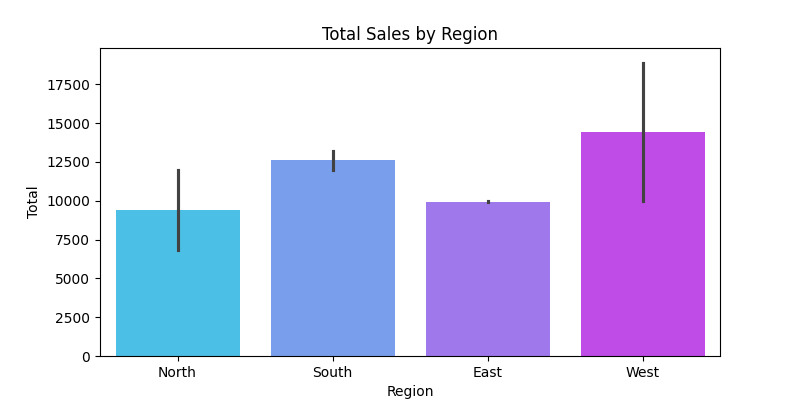
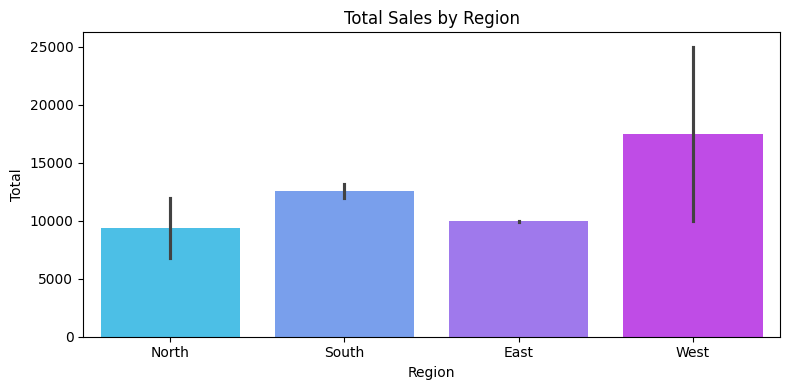
Step 3 updated: Data cleaning, visuals, PDF & email automation explained

diff --git a/SALES_ANALYTICS_DASHBOARD/main.py b/SALES_ANALYTICS_DASHBOARD/main.py
@@ -8,126 +8,165 @@ import seaborn as sns
 from reportlab.lib.pagesizes import letter
 from reportlab.platypus import SimpleDocTemplate, Paragraph, Spacer, Image
 from reportlab.lib.styles import getSampleStyleSheet
-
-# ✅ 1. Read latest sales data
-file_path = "/workspaces/sales_analytics_dashboard/SALES_ANALYTICS_DASHBOARD/Data/sales_data.csv"
-df = pd.read_csv(file_path)
-
-# ✅ 2. Basic cleaning (remove duplicates & nulls)
-df.drop_duplicates(inplace=True)
-df.dropna(inplace=True)
-
-# ✅ 3. Recalculate total column if missing
-if 'Total' not in df.columns:
-    df['Total'] = df['Quantity'] * df['Unit_Price']
-
-# ✅ 4. Save cleaned file back to CSV
-df.to_csv(file_path, index=False)
-
-# ✅ 5. Summary stats
-total_sales = df["Total"].sum()
-avg_sales = df["Total"].mean()
-sales_by_region = df.groupby("Region")["Total"].sum()
-sales_by_product = df.groupby("Product")["Total"].sum()
-
-print("✅ Data cleaned and updated successfully!")
-print("📊 Total Sales:", total_sales)
-print("📈 Average Sale Per Transaction:", avg_sales)
-
-# ========================================
-# ✅ VISUALS SECTION
-# ========================================
-
-plt.figure(figsize=(8, 4))
-sns.barplot(x="Region", y="Total", data=df, hue="Region", palette="cool", legend=False)
-plt.title("Total Sales by Region")
-plt.savefig("/workspaces/sales_analytics_dashboard/SALES_ANALYTICS_DASHBOARD/visuals/sales_by_region.png")
-plt.close()
-
-plt.figure(figsize=(8, 4))
-sns.barplot(x="Product", y="Total", data=df, hue="Product", palette="magma", legend=False)
-plt.title("Total Sales by Product")
-plt.savefig("/workspaces/sales_analytics_dashboard/SALES_ANALYTICS_DASHBOARD/visuals/sales_by_product.png")
-plt.close()
-
-# ========================================
-# ✅ PDF REPORT GENERATION
-# ========================================
-
-pdf_path = "/workspaces/sales_analytics_dashboard/SALES_ANALYTICS_DASHBOARD/visuals/sales_report.pdf"
-doc = SimpleDocTemplate(pdf_path, pagesize=letter)
-styles = getSampleStyleSheet()
-story = []
-
-story.append(Paragraph("Sales Analytics Report", styles["Title"]))
-story.append(Spacer(1, 12))
-story.append(Paragraph(f"Total Sales: {total_sales}", styles["Normal"]))
-story.append(Paragraph(f"Average Sale per Transaction: {avg_sales:.2f}", styles["Normal"]))
-story.append(Spacer(1, 12))
-
-story.append(Paragraph("Sales by Region:", styles["Heading2"]))
-story.append(Paragraph(sales_by_region.to_string(), styles["Code"]))
-story.append(Spacer(1, 12))
-
-story.append(Paragraph("Sales by Product:", styles["Heading2"]))
-story.append(Paragraph(sales_by_product.to_string(), styles["Code"]))
-story.append(Spacer(1, 12))
-
-story.append(Image("/workspaces/sales_analytics_dashboard/SALES_ANALYTICS_DASHBOARD/visuals/sales_by_region.png", width=400, height=250))
-story.append(Spacer(1, 12))
-story.append(Image("/workspaces/sales_analytics_dashboard/SALES_ANALYTICS_DASHBOARD/visuals/sales_by_product.png", width=400, height=250))
-
-doc.build(story)
-
-print(f"✅ PDF Report Generated: {pdf_path}")
-
-# ====================================================
-# STEP 4 - Email Automation (Send PDF Report)
-# ====================================================
-
-import smtplib
-import json
-from email.mime.text import MIMEText
-from email.mime.multipart import MIMEMultipart
-from email.mime.base import MIMEBase
-from email import encoders
 import os
+import sys
 
-# ✅ Read email credentials from config.json
-config_path = "/workspaces/sales_analytics_dashboard/SALES_ANALYTICS_DASHBOARD/config.json"
-with open(config_path, 'r') as file:
-    config = json.load(file)
+# Replace the top-level script behavior with a main() and add validations
+def main():
+    file_path = "/workspaces/sales_analytics_dashboard/SALES_ANALYTICS_DASHBOARD/Data/sales_data.csv"
 
-sender_email = config["sender_email"]
-app_password = config["app_password"]
-receiver_email = config["receiver_email"]
+    # Read CSV with error handling
+    try:
+        df = pd.read_csv(file_path)
+    except Exception as e:
+        print("❌ Failed to read sales CSV:", e)
+        sys.exit(1)
 
-# ✅ Email setup
-subject = "Weekly Sales Report 📊"
-body = "Dear Team,\n\nPlease find the attached latest Sales Report (PDF).\n\nRegards,\nSales Analytics System"
+    # Ensure required columns exist
+    required = ["Quantity", "Unit_Price", "Region", "Product"]
+    missing = [c for c in required if c not in df.columns]
+    if missing:
+        print("❌ Missing required columns:", missing)
+        sys.exit(1)
 
-# ✅ Create email message
-message = MIMEMultipart()
-message["From"] = sender_email
-message["To"] = receiver_email
-message["Subject"] = subject
-message.attach(MIMEText(body, "plain"))
+    # Basic cleaning: remove exact duplicate rows and only drop rows missing critical fields
+    df.drop_duplicates(inplace=True)
+    df.dropna(subset=required, inplace=True)
 
-# ✅ Attach PDF report
-pdf_path = "/workspaces/sales_analytics_dashboard/SALES_ANALYTICS_DASHBOARD/visuals/sales_report.pdf"
-with open(pdf_path, "rb") as pdf_file:
-    part = MIMEBase("application", "octet-stream")
-    part.set_payload(pdf_file.read())
-encoders.encode_base64(part)
-part.add_header("Content-Disposition", f"attachment; filename={os.path.basename(pdf_path)}")
-message.attach(part)
+    # Coerce numeric types for calculation (safe)
+    df["Quantity"] = pd.to_numeric(df["Quantity"], errors="coerce")
+    df["Unit_Price"] = pd.to_numeric(df["Unit_Price"], errors="coerce")
+    df.dropna(subset=["Quantity", "Unit_Price"], inplace=True)
 
-# ✅ Send email via Gmail SMTP
-try:
-    with smtplib.SMTP_SSL("smtp.gmail.com", 465) as server:
-        server.login(sender_email, app_password)
-        server.send_message(message)
-        print("✅ Email sent successfully with attached PDF!")
-except Exception as e:
-    print("❌ Error sending email:", e)
+    # Recalculate Total if missing or if type unsafe
+    if 'Total' not in df.columns or not pd.api.types.is_numeric_dtype(df['Total']):
+        df['Total'] = df['Quantity'] * df['Unit_Price']
+
+    # Save cleaned file back to CSV
+    try:
+        df.to_csv(file_path, index=False)
+    except Exception as e:
+        print("❌ Failed to write cleaned CSV:", e)
+
+    # Summary stats
+    total_sales = df["Total"].sum()
+    avg_sales = df["Total"].mean()
+    sales_by_region = df.groupby("Region")["Total"].sum()
+    sales_by_product = df.groupby("Product")["Total"].sum()
+
+    print("✅ Data cleaned and updated successfully!")
+    print("📊 Total Sales:", total_sales)
+    print("📈 Average Sale Per Transaction:", avg_sales)
+
+    # Ensure visuals directory exists
+    visuals_dir = "/workspaces/sales_analytics_dashboard/SALES_ANALYTICS_DASHBOARD/visuals"
+    os.makedirs(visuals_dir, exist_ok=True)
+
+    # Visuals (use bbox_inches to avoid cut off)
+    region_png = os.path.join(visuals_dir, "sales_by_region.png")
+    plt.figure(figsize=(8, 4))
+    sns.barplot(x="Region", y="Total", data=df, palette="cool")
+    plt.title("Total Sales by Region")
+    plt.tight_layout()
+    plt.savefig(region_png, bbox_inches="tight")
+    plt.close()
+
+    product_png = os.path.join(visuals_dir, "sales_by_product.png")
+    plt.figure(figsize=(8, 4))
+    sns.barplot(x="Product", y="Total", data=df, palette="magma")
+    plt.title("Total Sales by Product")
+    plt.tight_layout()
+    plt.savefig(product_png, bbox_inches="tight")
+    plt.close()
+
+    # PDF generation (paths)
+    pdf_path = os.path.join(visuals_dir, "sales_report.pdf")
+    doc = SimpleDocTemplate(pdf_path, pagesize=letter)
+    styles = getSampleStyleSheet()
+    story = []
+
+    story.append(Paragraph("Sales Analytics Report", styles["Title"]))
+    story.append(Spacer(1, 12))
+    story.append(Paragraph(f"Total Sales: {total_sales}", styles["Normal"]))
+    story.append(Paragraph(f"Average Sale per Transaction: {avg_sales:.2f}", styles["Normal"]))
+    story.append(Spacer(1, 12))
+
+    story.append(Paragraph("Sales by Region:", styles["Heading2"]))
+    story.append(Paragraph(sales_by_region.to_string(), styles["Code"]))
+    story.append(Spacer(1, 12))
+
+    story.append(Paragraph("Sales by Product:", styles["Heading2"]))
+    story.append(Paragraph(sales_by_product.to_string(), styles["Code"]))
+    story.append(Spacer(1, 12))
+
+    story.append(Image(region_png, width=400, height=250))
+    story.append(Spacer(1, 12))
+    story.append(Image(product_png, width=400, height=250))
+
+    try:
+        doc.build(story)
+        print(f"✅ PDF Report Generated: {pdf_path}")
+    except Exception as e:
+        print("❌ Failed to generate PDF:", e)
+
+    # Email sending: validate config file first
+    config_path = "/workspaces/sales_analytics_dashboard/SALES_ANALYTICS_DASHBOARD/config.json"
+    if not os.path.exists(config_path):
+        print("❌ Email config.json not found. Skipping email send.")
+        return
+
+    import smtplib
+    import json
+    from email.mime.text import MIMEText
+    from email.mime.multipart import MIMEMultipart
+    from email.mime.base import MIMEBase
+    from email import encoders
+
+    try:
+        with open(config_path, 'r') as file:
+            config = json.load(file)
+    except Exception as e:
+        print("❌ Failed to read config.json:", e)
+        return
+
+    sender_email = config.get("sender_email")
+    app_password = config.get("app_password")
+    receiver_email = config.get("receiver_email")
+    if not (sender_email and app_password and receiver_email):
+        print("❌ Incomplete email config. Skipping email send.")
+        return
+
+    subject = "Weekly Sales Report 📊"
+    body = "Dear Team,\n\nPlease find the attached latest Sales Report (PDF).\n\nRegards,\nSales Analytics System"
+
+    message = MIMEMultipart()
+    message["From"] = sender_email
+    message["To"] = receiver_email
+    message["Subject"] = subject
+    message.attach(MIMEText(body, "plain"))
+
+    # Attach PDF report
+    try:
+        with open(pdf_path, "rb") as pdf_file:
+            part = MIMEBase("application", "octet-stream")
+            part.set_payload(pdf_file.read())
+        encoders.encode_base64(part)
+        part.add_header("Content-Disposition", f"attachment; filename={os.path.basename(pdf_path)}")
+        message.attach(part)
+    except Exception as e:
+        print("❌ Failed to attach PDF:", e)
+        return
+
+    # Send email via Gmail SMTP
+    try:
+        with smtplib.SMTP_SSL("smtp.gmail.com", 465) as server:
+            server.login(sender_email, app_password)
+            server.send_message(message)
+            print("✅ Email sent successfully with attached PDF!")
+    except Exception as e:
+        print("❌ Error sending email:", e)
+
+
+if __name__ == "__main__":
+    main()
 
